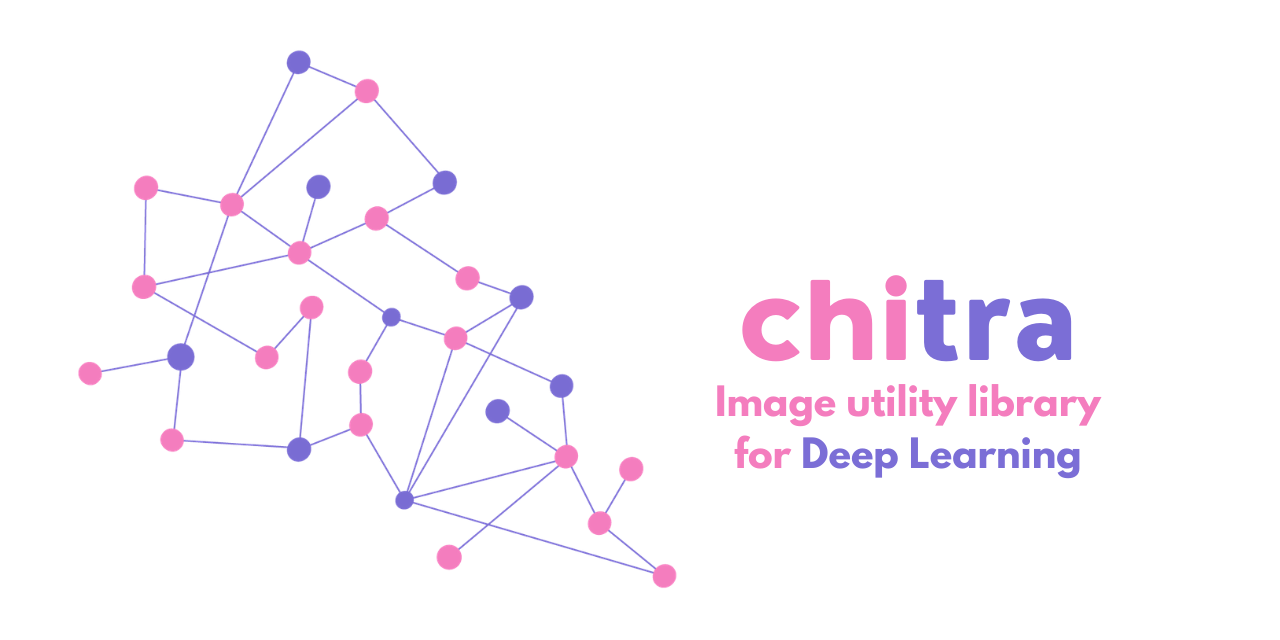
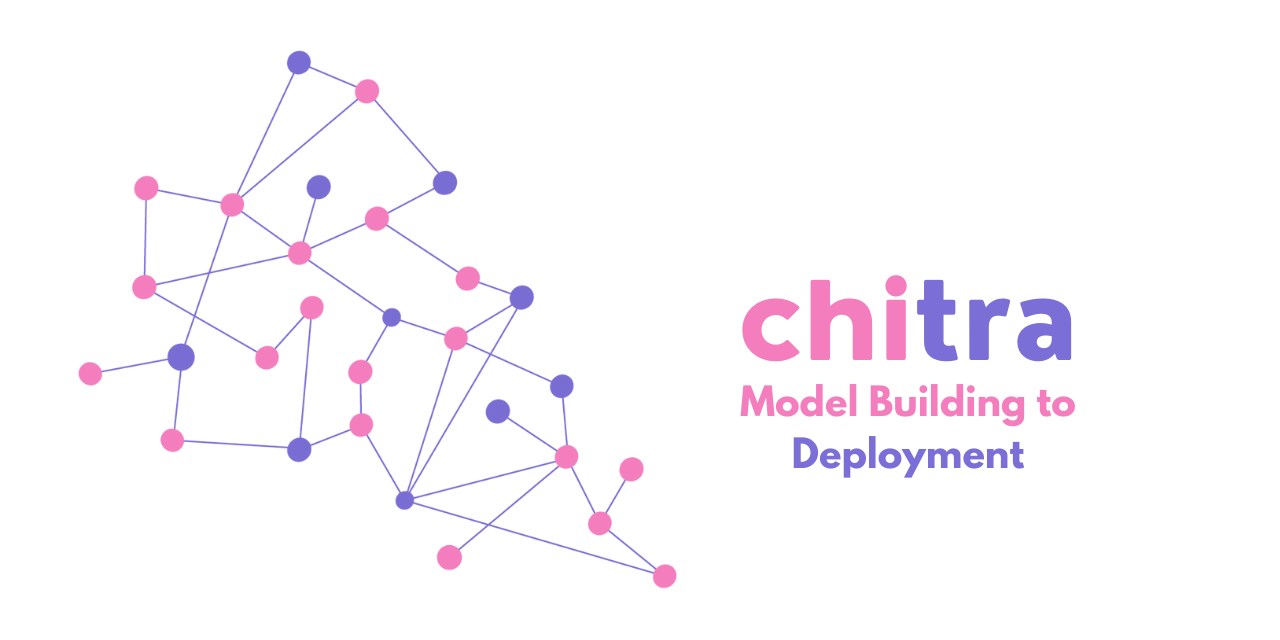
📚 update documentations (#123)
* update installation instruction

* update install

* update

diff --git a/docs/overrides/main.html b/docs/overrides/main.html
@@ -9,7 +9,7 @@
   {% endif %}
 
   <meta charset="utf-8">
-  <title>Research to Deployment with Chitra</title>
+  <title>Simplifying Machine Learning Model Building to Deployment</title>
   <link rel="canonical" href="https://chitra.readthedocs.io/" />
 
   <meta property="og:type" content="website" />
@@ -30,5 +30,5 @@
 {% endblock %}
 
 {% set extracopyright %}
-  Copyright 2021 Aniket Maurya, <a href="https://github.com/aniketmaurya/chitra/blob/master/LICENSE">Apache License 2.0</a>
+  Copyright 2020-2021 Aniket Maurya, <a href="https://github.com/aniketmaurya/chitra/blob/master/LICENSE">Apache License 2.0</a>
 {% endset %}

diff --git a/README.md b/README.md
@@ -16,9 +16,9 @@ Model Training and Explainable AI.
 Easily create UI for Machine Learning models or Rest API backend that can be deployed for serving ML Models in Production.
 
 ### 📌 Highlights:
-
-- [New] Framework Agnostic Model Serving & Interactive UI prototype app ✨🌟
-- [New] Data Visualization, Bounding Box Visualization 🐶🎨
+- [New] [Auto Dockerization of Models](https://chitra.readthedocs.io/en/latest/source/cli/builder/builder-create/) 🐳
+- [New] [Framework Agnostic Model Serving & Interactive UI prototype app](https://chitra.readthedocs.io/en/latest/source/api/serve/model_server/) ✨🌟
+- [New] [Data Visualization, Bounding Box Visualization](https://chitra.readthedocs.io/en/latest/source/api/image/chitra-class/) 🐶🎨
 - Model interpretation using GradCAM/GradCAM++ with no extra code 🔥
 - Faster data loading without any boilerplate 🤺
 - Progressive resizing of images 🎨
@@ -27,8 +27,6 @@ Easily create UI for Machine Learning models or Rest API backend that can be dep
 ### 🚘 Implementation Roadmap
 
 - One click deployment to `serverless` platform.
-- Auto Dockerization of Models.
-
 
 > If you have more use case please [**raise an issue/PR**](https://github.com/aniketmaurya/chitra/issues/new/choose) with the feature you want.
 > If you want to contribute, feel free to raise a PR. It doesn't need to be perfect.
@@ -41,8 +39,17 @@ Easily create UI for Machine Learning models or Rest API backend that can be dep
 ![GitHub License](https://img.shields.io/github/license/aniketmaurya/chitra?style=flat)
 
 ### Using pip (recommended)
-
+1. Minimum installation
 `pip install -U chitra`
+
+1. Full Installation
+`pip install -U 'chitra[all]'`
+
+1. Install for Training
+`pip install -U 'chitra[nn]'`
+
+1. Install for Serving
+`pip install -U 'chitra[serve]'`
 
 ### From source
 
@@ -313,7 +320,7 @@ Bounding Box creation is based on top of `imgaug` library.
 
 ```python
 from chitra.image import Chitra
-
+import matplotlib.pyplot as plt
 
 bbox = [70, 25, 190, 210]
 label = 'Dog'
@@ -356,16 +363,16 @@ explanation!
 Limit GPU memory or enable dynamic GPU memory growth for Tensorflow.
 
 ```python
-from chitra.utility import tf_limit_gpu, tf_gpu_dynamic_mem_growth
+from chitra.utility.tf_utils import limit_gpu, gpu_dynamic_mem_growth
 
 # limit the amount of GPU required for your training
-tf_limit_gpu(gpu_id=0, memory_limit=1024 * 2)
+limit_gpu(gpu_id=0, memory_limit=1024 * 2)
 ```
 
     No GPU:0 found in your system!
 
 ```python
-tf_gpu_dynamic_mem_growth()
+gpu_dynamic_mem_growth()
 ```
 
     No GPU found on the machine!
@@ -379,8 +386,7 @@ Guidelines**](https://github.com/aniketmaurya/chitra/blob/master/CONTRIBUTING.md
 
 We pledge to act and interact in ways that contribute to an open, welcoming, diverse, inclusive, and healthy community.
 
-Read full [**Contributor Covenant Code of
-Conduct**](https://github.com/aniketmaurya/chitra/blob/master/CODE_OF_CONDUCT.md)
+Read full [**Contributor Covenant Code of Conduct**](https://github.com/aniketmaurya/chitra/blob/master/CODE_OF_CONDUCT.md)
 
 ## Acknowledgement
 

diff --git a/docs/index.md b/docs/index.md
@@ -16,9 +16,9 @@ Model Training and Explainable AI.
 Easily create UI for Machine Learning models or Rest API backend that can be deployed for serving ML Models in Production.
 
 ### 📌 Highlights:
-
-- [New] Framework Agnostic Model Serving & Interactive UI prototype app ✨🌟
-- [New] Data Visualization, Bounding Box Visualization 🐶🎨
+- [New] [Auto Dockerization of Models](https://chitra.readthedocs.io/en/latest/source/cli/builder/builder-create/) 🐳
+- [New] [Framework Agnostic Model Serving & Interactive UI prototype app](https://chitra.readthedocs.io/en/latest/source/api/serve/model_server/) ✨🌟
+- [New] [Data Visualization, Bounding Box Visualization](https://chitra.readthedocs.io/en/latest/source/api/image/chitra-class/) 🐶🎨
 - Model interpretation using GradCAM/GradCAM++ with no extra code 🔥
 - Faster data loading without any boilerplate 🤺
 - Progressive resizing of images 🎨
@@ -27,8 +27,6 @@ Easily create UI for Machine Learning models or Rest API backend that can be dep
 ### 🚘 Implementation Roadmap
 
 - One click deployment to `serverless` platform.
-- Auto Dockerization of Models.
-
 
 > If you have more use case please [**raise an issue/PR**](https://github.com/aniketmaurya/chitra/issues/new/choose) with the feature you want.
 > If you want to contribute, feel free to raise a PR. It doesn't need to be perfect.
@@ -41,8 +39,17 @@ Easily create UI for Machine Learning models or Rest API backend that can be dep
 ![GitHub License](https://img.shields.io/github/license/aniketmaurya/chitra?style=flat)
 
 ### Using pip (recommended)
-
+1. Minimum installation
 `pip install -U chitra`
+
+1. Full Installation
+`pip install -U 'chitra[all]'`
+
+1. Install for Training
+`pip install -U 'chitra[nn]'`
+
+1. Install for Serving
+`pip install -U 'chitra[serve]'`
 
 ### From source
 
@@ -313,7 +320,7 @@ Bounding Box creation is based on top of `imgaug` library.
 
 ```python
 from chitra.image import Chitra
-
+import matplotlib.pyplot as plt
 
 bbox = [70, 25, 190, 210]
 label = 'Dog'
@@ -356,16 +363,16 @@ explanation!
 Limit GPU memory or enable dynamic GPU memory growth for Tensorflow.
 
 ```python
-from chitra.utility import tf_limit_gpu, tf_gpu_dynamic_mem_growth
+from chitra.utility.tf_utils import limit_gpu, gpu_dynamic_mem_growth
 
 # limit the amount of GPU required for your training
-tf_limit_gpu(gpu_id=0, memory_limit=1024 * 2)
+limit_gpu(gpu_id=0, memory_limit=1024 * 2)
 ```
 
     No GPU:0 found in your system!
 
 ```python
-tf_gpu_dynamic_mem_growth()
+gpu_dynamic_mem_growth()
 ```
 
     No GPU found on the machine!
@@ -379,8 +386,7 @@ Guidelines**](https://github.com/aniketmaurya/chitra/blob/master/CONTRIBUTING.md
 
 We pledge to act and interact in ways that contribute to an open, welcoming, diverse, inclusive, and healthy community.
 
-Read full [**Contributor Covenant Code of
-Conduct**](https://github.com/aniketmaurya/chitra/blob/master/CODE_OF_CONDUCT.md)
+Read full [**Contributor Covenant Code of Conduct**](https://github.com/aniketmaurya/chitra/blob/master/CODE_OF_CONDUCT.md)
 
 ## Acknowledgement
 

diff --git a/docs/examples/image-classification/image-classification.md b/docs/examples/image-classification/image-classification.md
@@ -4,14 +4,7 @@
 Training Image classification model for Cats vs Dogs Kaggle dataset.
 
 To install chitra
-`pip install --upgrade chitra`
-
-
-```python
-!pip install chitra -q
-```
-
-    [K     |████████████████████████████████| 1.1MB 18.1MB/s eta 0:00:01
+`pip install --upgrade "chitra[nn]"`
 
 
 ## import functions and classes

diff --git a/docs/examples/model-server/model-server.md b/docs/examples/model-server/model-server.md
@@ -12,7 +12,7 @@ Create API for Any Learning Model - ML, DL, Image Classification, NLP, Tensorflo
 ## Code
 
 ```python
-# Install chitra
+# install chitra
 # pip install -U chitra
 
 from chitra.serve import create_api
